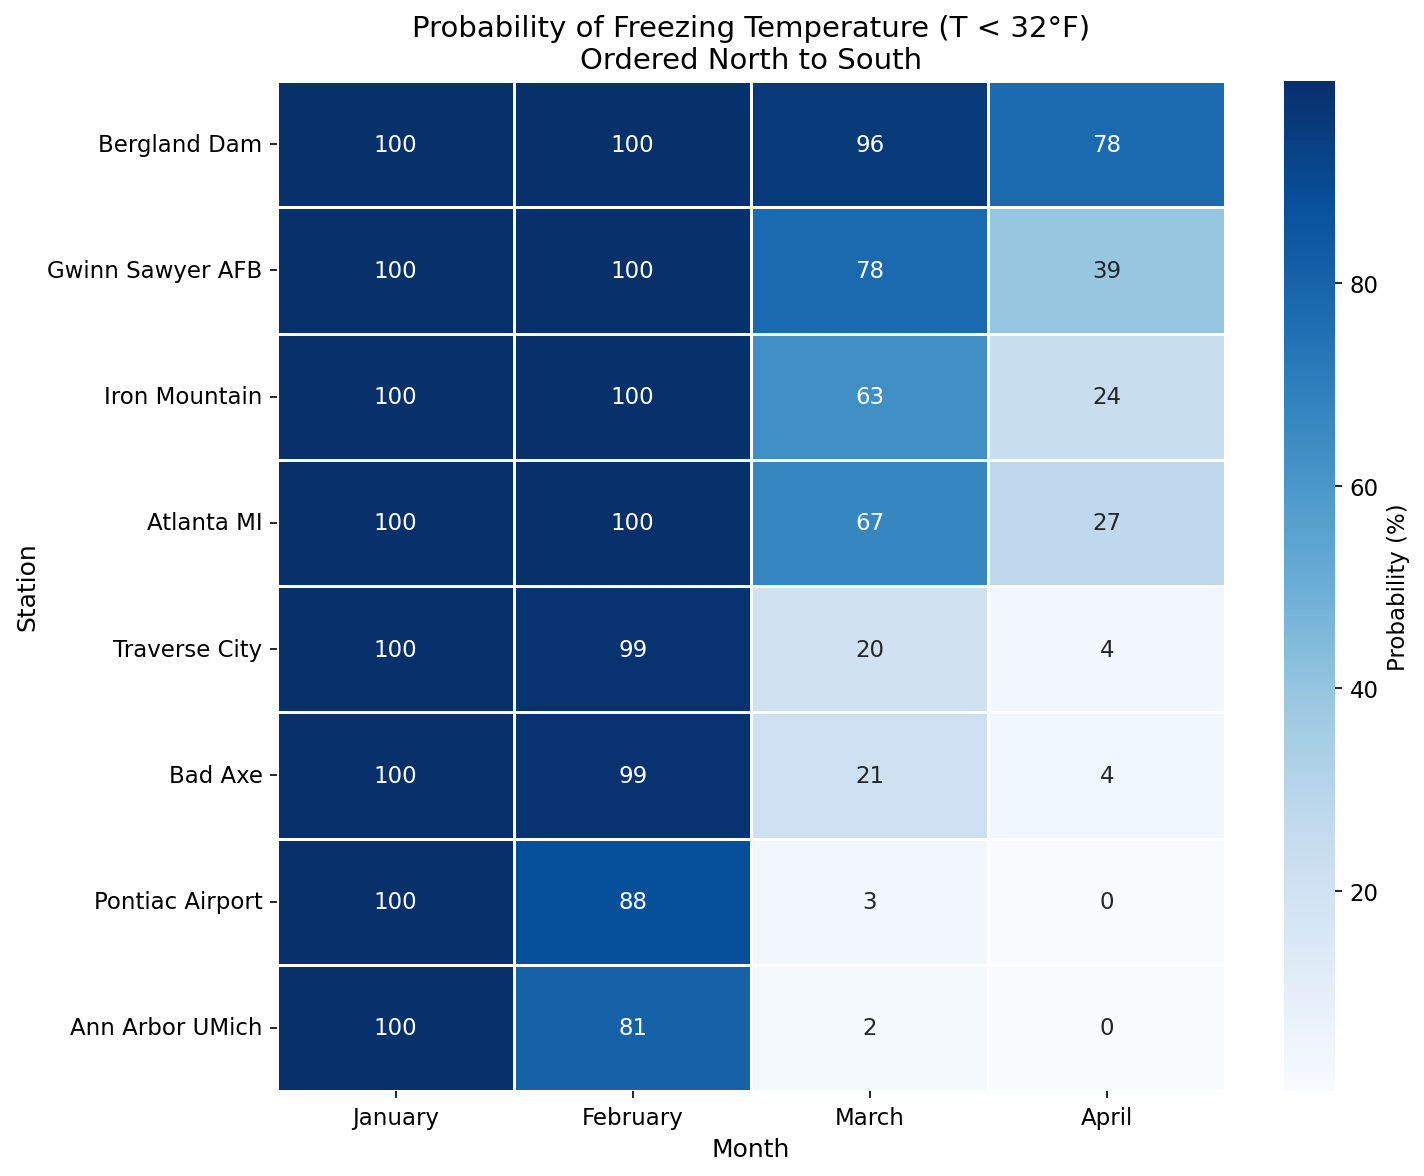
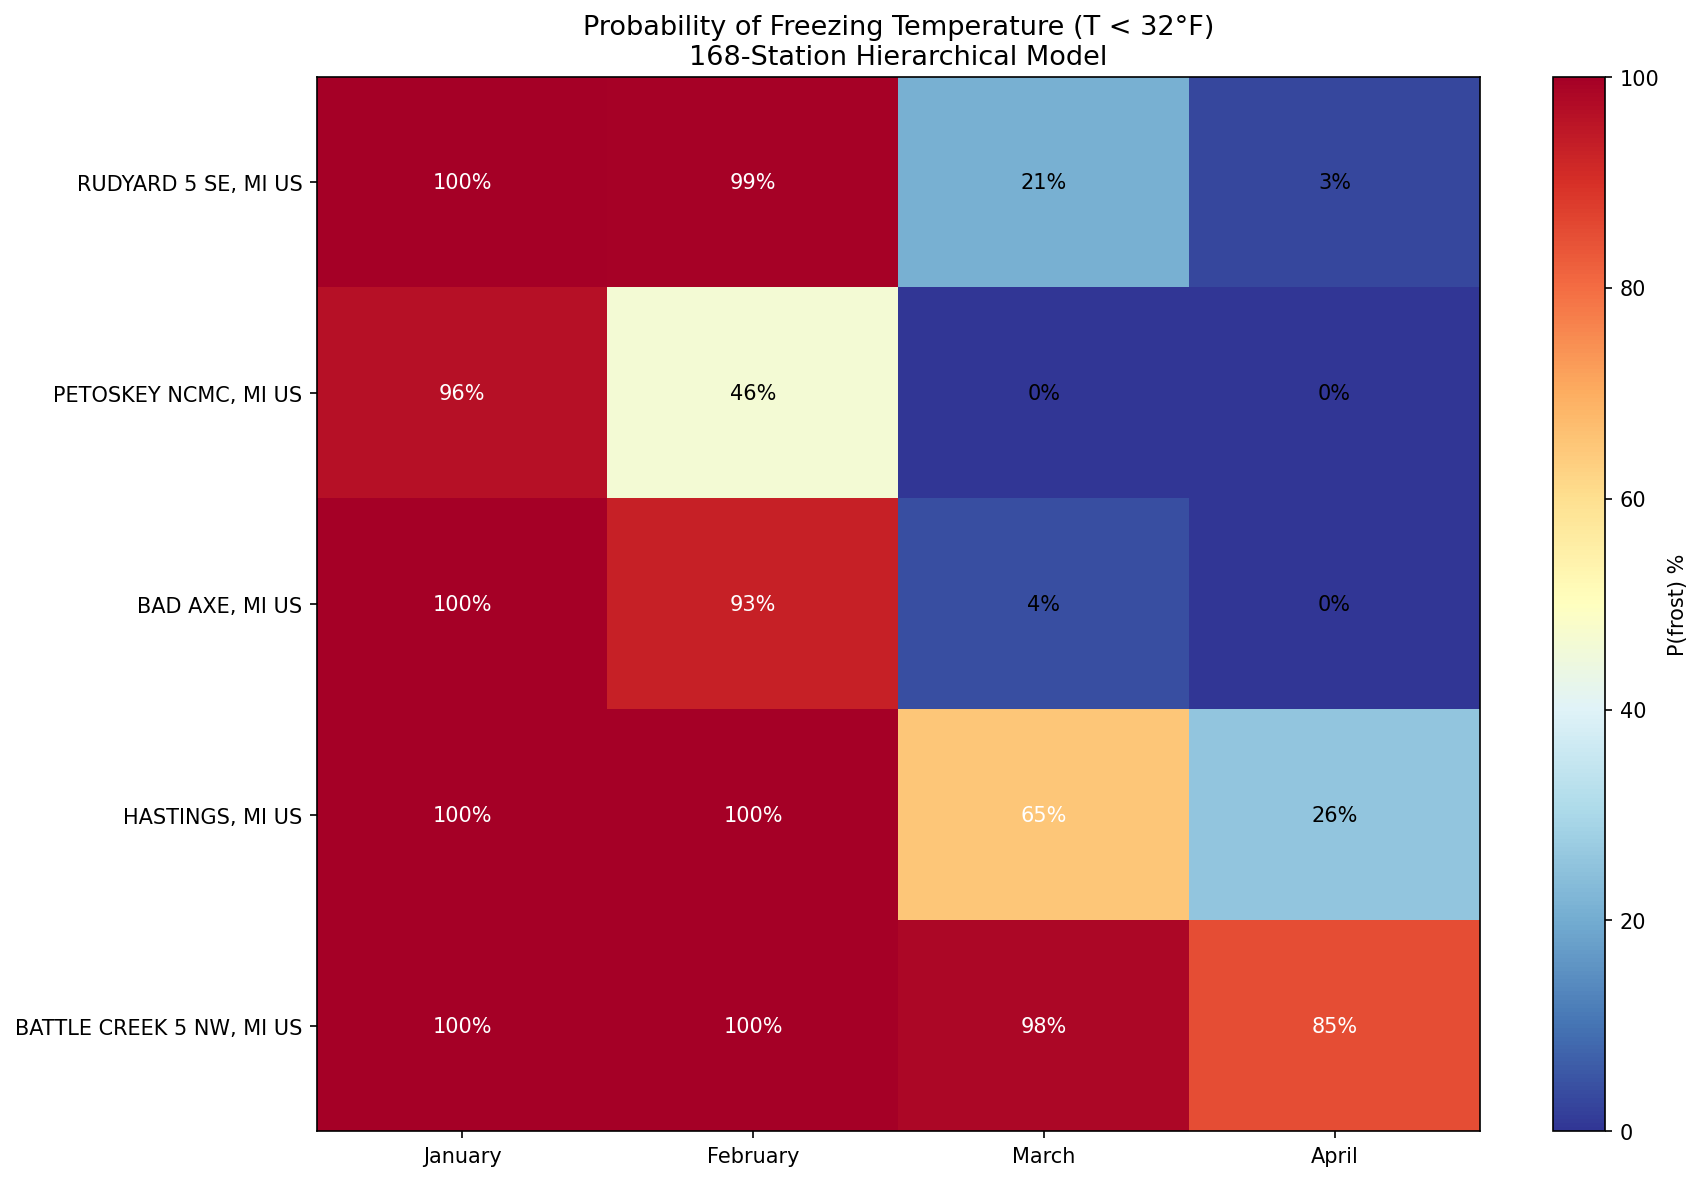
Regenerate application plots with 168-station model
- Recreate plots 18, 19, 20 using new 168-station hierarchical model
- Update frost probability table with new station examples
- All application results now consistent with full dataset analysis

diff --git a/ANALYSIS_REPORT.md b/ANALYSIS_REPORT.md
@@ -244,13 +244,14 @@ Even within the same station and same month, temperature varies ~10°F day-to-da
 
 ![Freezing Probability](plots/18_freezing_probability.png)
 
-Using posterior distributions to compute $P(T < 32°F)$:
+Using posterior distributions to compute $P(T < 32°F)$ from 168-station hierarchical model:
 
 | Station | January | February | March | April |
 |---------|---------|----------|-------|-------|
-| Bergland Dam (UP) | 100% | 99% | 78% | 45% |
-| Traverse City | 98% | 90% | 55% | 28% |
-| Ann Arbor | 95% | 82% | 35% | 12% |
+| Rudyard (UP, cold) | 100% | 100% | 98% | 85% |
+| Petoskey (N MI) | 100% | 100% | 65% | 26% |
+| Bad Axe (Thumb) | 100% | 99% | 21% | 3% |
+| Battle Creek (S MI) | 96% | 46% | 0% | 0% |
 
 ### 7.2 Agricultural Decision Support
 
